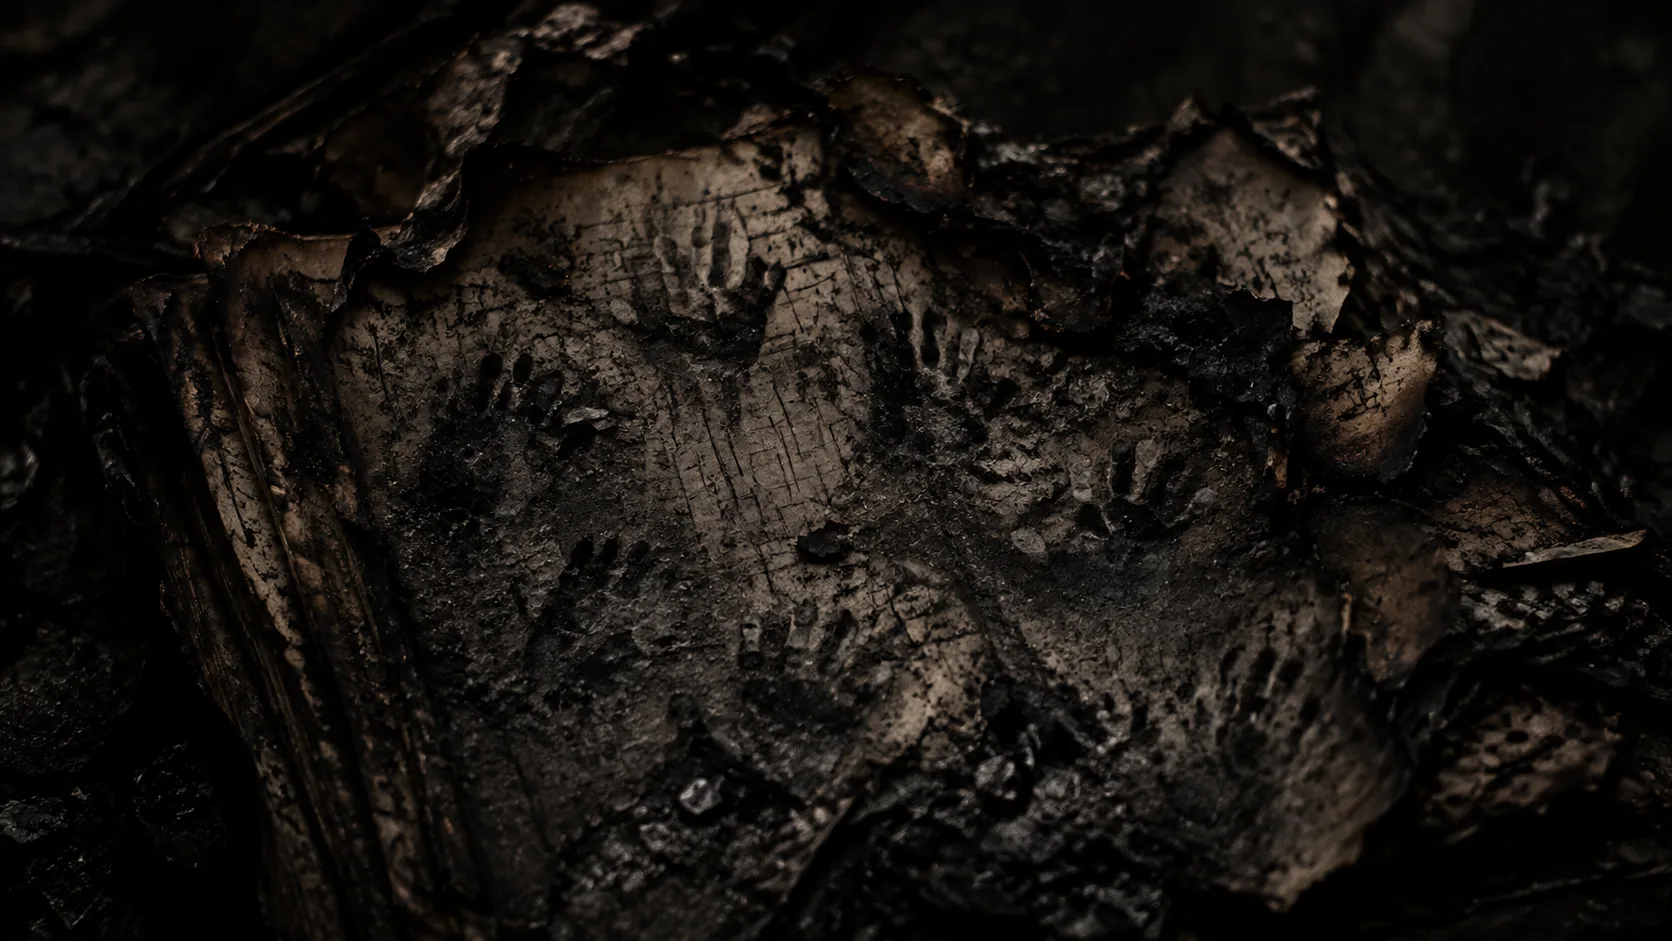
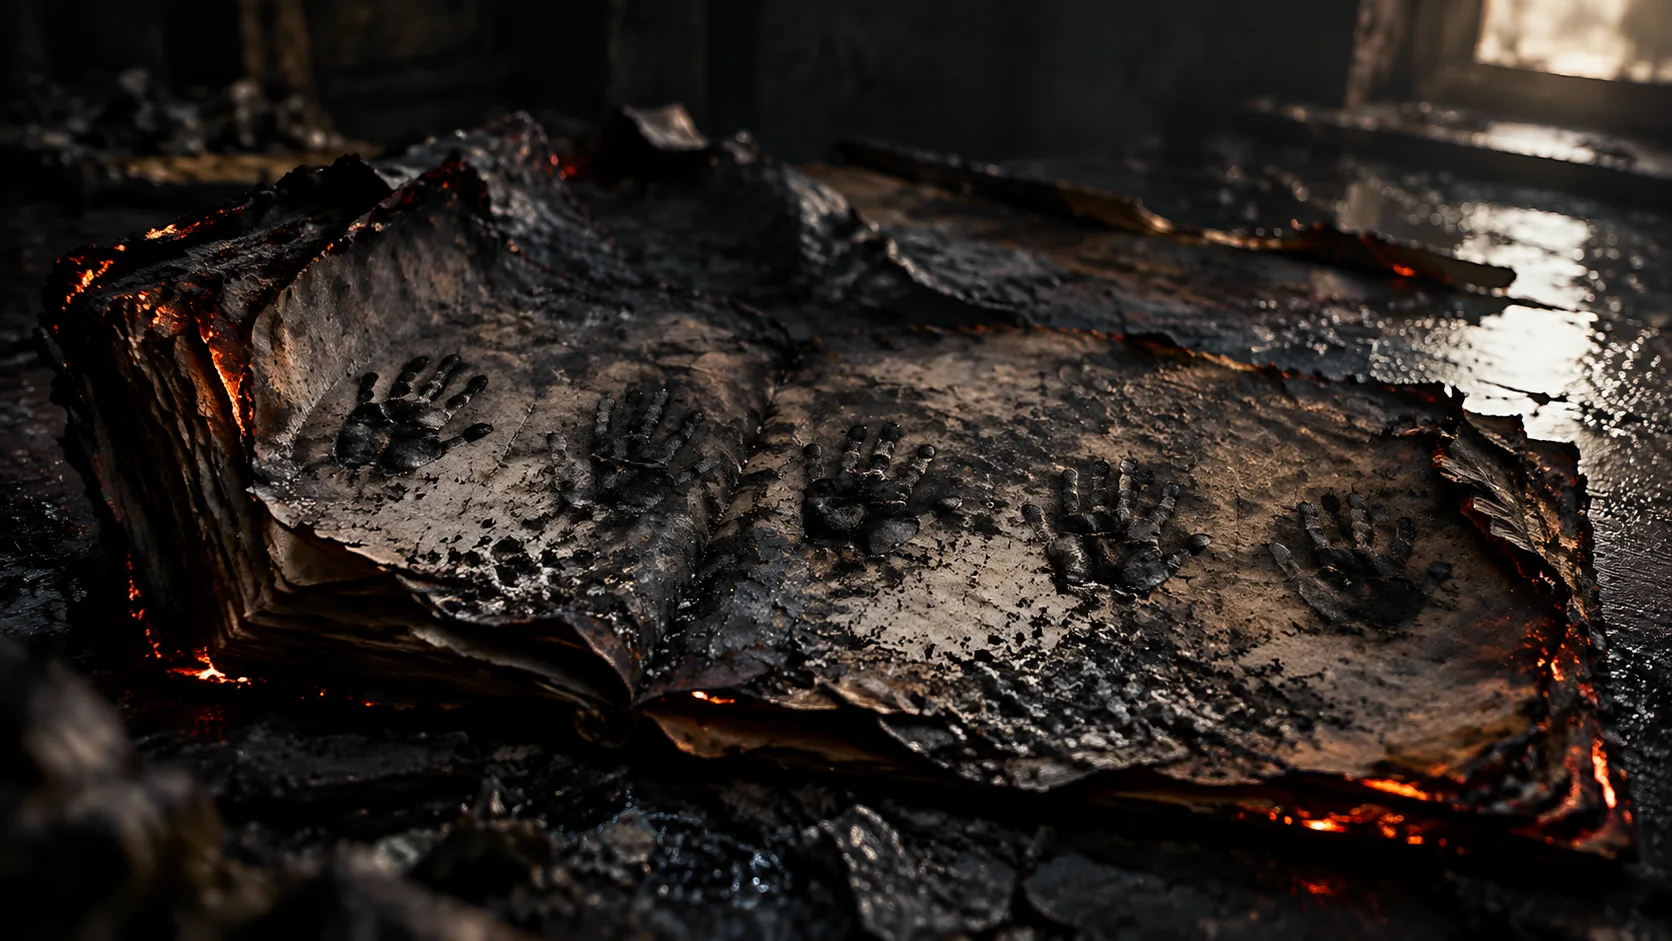
feat: 优化第二结局(账已焚)页——重出 hero 图、余烬飘灰动效、扩写文案、强化通第零笔线索

diff --git a/src/views/EndingAsh.vue b/src/views/EndingAsh.vue
@@ -2,6 +2,9 @@
   <section class="ending-page ending-grey">
     <figure class="ep-hero">
       <img :src="art" alt="" />
+      <div class="ep-embers" aria-hidden="true">
+        <i v-for="n in 30" :key="n" :style="emberStyle(n)"></i>
+      </div>
       <figcaption class="ep-cap">
         <p class="ep-kicker">结账 · 账已焚</p>
         <h1>账已焚</h1>
@@ -10,9 +13,17 @@
     </figure>
 
     <div class="ep-copy">
-      <p>账焚尽了。他看了很久，什么也没说。</p>
+      <p>账焚尽了。火停在最后一页，没有再往前烧。</p>
+      <p>他看了很久，什么也没说。四样回执齐了，这一页才点得着；点着了，他就再也回不去——您也一样。</p>
+      <p>万和号的后间空了。借出去的那些命，一笔一笔还了回去，只是还回来的，总比借出去时少一些。</p>
       <p>灰里还留着字痕。有些字，是烧不掉的。</p>
-      <RouterLink class="grey-hint" to="/strike-zero">账烧不干净的那一笔，在灰里也看得见。</RouterLink>
+
+      <RouterLink class="grey-clue" to="/strike-zero">
+        <span class="clue-tag">残页 · 未烧尽</span>
+        <span class="clue-text">账烧不干净的那一笔，在灰里也看得见。</span>
+        <span class="clue-go">翻回第一页 →</span>
+      </RouterLink>
+
       <button class="btn-flat" @click="restart">重新调阅</button>
     </div>
   </section>
@@ -27,6 +38,24 @@ const router = useRouter()
 const art = '/img/ending-ash.webp'
 onMounted(() => game.setEnding('grey'))   // 本页即灰结局：确立状态，保证第零笔入口可用
 function restart() { game.reset(); router.push('/') }
+
+// 余烬：按序号散列出位置/速度/漂移，避免每次渲染乱跳
+function emberStyle(n) {
+  const r1 = Math.abs((Math.sin(n * 12.9898) * 43758.5453) % 1)
+  const r2 = Math.abs((Math.sin(n * 78.233) * 12543.21) % 1)
+  const r3 = Math.abs((Math.sin(n * 39.425) * 9337.11) % 1)
+  const size = (2.5 + r3 * 4).toFixed(1) + 'px'
+  return {
+    left: (r1 * 100).toFixed(1) + '%',
+    bottom: (-2 + r3 * 32).toFixed(1) + '%',
+    width: size,
+    height: size,
+    animationDuration: (3.4 + r2 * 4.6).toFixed(2) + 's',
+    animationDelay: (-r2 * 7.5).toFixed(2) + 's',
+    '--dx': ((r1 - 0.5) * 60).toFixed(0) + 'px',
+    opacity: (0.45 + r3 * 0.5).toFixed(2),
+  }
+}
 </script>
 
 <style scoped>
@@ -36,28 +65,79 @@ function restart() { game.reset(); router.push('/') }
   border: 1px solid rgba(150, 145, 130, 0.4); background: #0d0906;
   box-shadow: 0 0 50px rgba(120, 118, 110, 0.14); animation: ep-in 0.9s ease both;
 }
-.ep-hero img { width: 100%; height: 100%; object-fit: cover; display: block; filter: grayscale(0.35) sepia(0.12) contrast(1.05) brightness(0.82); }
-.ep-hero::before { content: ""; position: absolute; inset: 0; background: linear-gradient(180deg, rgba(0,0,0,0.12) 0%, rgba(0,0,0,0.12) 42%, rgba(10,10,9,0.94) 100%); }
-.ep-hero::after { content: ""; position: absolute; inset: 0; pointer-events: none; background: repeating-linear-gradient(0deg, rgba(0,0,0,0.16) 0 1px, transparent 1px 3px); mix-blend-mode: multiply; }
-.ep-cap { position: absolute; left: 42px; bottom: 30px; z-index: 2; }
+.ep-hero img { width: 100%; height: 100%; object-fit: cover; display: block; filter: grayscale(0.28) sepia(0.14) contrast(1.06) brightness(0.86); animation: ep-breathe 7s ease-in-out infinite alternate; }
+/* 压暗 + 底部余烬的暖光 + 暗角 */
+.ep-hero::before {
+  content: ""; position: absolute; inset: 0; z-index: 1;
+  background:
+    radial-gradient(90% 60% at 50% 118%, rgba(255, 108, 24, 0.16), transparent 62%),
+    radial-gradient(120% 100% at 50% 46%, transparent 44%, rgba(4, 3, 2, 0.62) 86%, rgba(2, 1, 0, 0.92) 100%),
+    linear-gradient(180deg, rgba(0, 0, 0, 0.12) 0%, rgba(0, 0, 0, 0.12) 42%, rgba(10, 10, 9, 0.94) 100%);
+}
+/* 扫描线 */
+.ep-hero::after { content: ""; position: absolute; inset: 0; z-index: 2; pointer-events: none; background: repeating-linear-gradient(0deg, rgba(0,0,0,0.16) 0 1px, transparent 1px 3px); mix-blend-mode: multiply; }
+
+/* 余烬飘灰 */
+.ep-embers { position: absolute; inset: 0; z-index: 2; pointer-events: none; overflow: hidden; }
+.ep-embers i {
+  position: absolute; border-radius: 50%;
+  background: radial-gradient(circle, #ffdf9a 0%, #ff8a1e 46%, rgba(255, 90, 0, 0) 74%);
+  filter: blur(0.4px);
+  animation-name: ember-rise; animation-timing-function: ease-in; animation-iteration-count: infinite;
+  will-change: transform, opacity;
+}
+@keyframes ember-rise {
+  0% { transform: translate3d(0, 0, 0) scale(0.85); opacity: 0; }
+  12% { opacity: 1; }
+  70% { opacity: 0.85; }
+  100% { transform: translate3d(var(--dx, 12px), -300px, 0) scale(0.35); opacity: 0; }
+}
+
+.ep-cap { position: absolute; left: 42px; bottom: 30px; z-index: 3; animation: cap-in 0.9s ease 0.28s both; }
 .ep-kicker { margin: 0 0 8px; font-size: 0.82rem; letter-spacing: 0.5em; color: #9d988a; }
 .ep-hero h1 { margin: 0; font-family: var(--serif, serif); font-size: clamp(2.4rem, 6vw, 4rem); letter-spacing: 0.18em; color: #c9c4b6; text-shadow: 0 2px 12px #000; }
 .ep-seal {
-  position: absolute; top: 26px; right: 30px; z-index: 2; width: 64px; height: 64px; border-radius: 6px;
+  position: absolute; top: 26px; right: 30px; z-index: 3; width: 64px; height: 64px; border-radius: 6px;
   display: flex; align-items: center; justify-content: center; font-family: "Ma Shan Zheng", serif; font-size: 34px;
   border: 2px solid rgba(150, 145, 130, 0.7); color: #cfc7b4; background: rgba(20, 19, 17, 0.5);
   transform: rotate(-6deg); box-shadow: 0 0 22px rgba(120, 118, 110, 0.3);
+  animation: seal-in 0.7s cubic-bezier(0.2, 1.4, 0.4, 1) 0.65s both;
 }
 .ep-copy { max-width: 660px; margin: 34px auto 0; text-align: center; animation: ep-copy-in 1s ease 0.25s both; }
 .ep-copy p { line-height: 2.2; font-size: 1.05rem; color: #cfc9ba; margin: 0 0 0.8em; }
-.grey-hint { display: block; margin: 22px 0 6px; color: rgba(154, 122, 85, 0.32); font-size: 0.78rem; letter-spacing: 0.14em; text-decoration: none; cursor: pointer; transition: color 0.5s ease, text-shadow 0.5s ease; }
-.grey-hint:hover { color: rgba(224, 178, 92, 0.9); text-shadow: 0 0 14px rgba(224, 178, 92, 0.35); }
-.ep-copy .btn-flat { margin-top: 14px; }
+
+/* 通第零笔：把残页做成一条看得见的线索 */
+.grey-clue {
+  display: flex; flex-direction: column; align-items: center; gap: 7px;
+  max-width: 470px; margin: 28px auto 4px; padding: 16px 22px;
+  border: 1px dashed rgba(154, 122, 85, 0.42);
+  background: linear-gradient(180deg, rgba(34, 25, 15, 0.5), rgba(20, 14, 9, 0.5));
+  text-decoration: none; cursor: pointer;
+  transition: border-color 0.5s ease, background 0.5s ease, box-shadow 0.5s ease;
+}
+.grey-clue:hover { border-color: rgba(224, 178, 92, 0.8); background: rgba(42, 30, 17, 0.66); box-shadow: 0 0 26px rgba(224, 178, 92, 0.2); }
+.clue-tag { font-size: 0.68rem; letter-spacing: 0.36em; color: #8a6f4d; }
+.clue-text { color: #bfa578; font-size: 0.9rem; letter-spacing: 0.06em; transition: color 0.5s ease; }
+.clue-go { font-size: 0.74rem; letter-spacing: 0.2em; color: #7a5b36; transition: color 0.5s ease; }
+.grey-clue:hover .clue-text, .grey-clue:hover .clue-go { color: #f0c884; }
+
+.ep-copy .btn-flat { margin-top: 20px; }
+
 @keyframes ep-in { from { opacity: 0; transform: scale(1.035); } to { opacity: 1; transform: scale(1); } }
+@keyframes ep-breathe { from { filter: grayscale(0.28) sepia(0.14) contrast(1.06) brightness(0.82); } to { filter: grayscale(0.28) sepia(0.14) contrast(1.06) brightness(0.92); } }
 @keyframes ep-copy-in { from { opacity: 0; transform: translateY(12px); } to { opacity: 1; transform: translateY(0); } }
+@keyframes cap-in { from { opacity: 0; transform: translateY(16px); } to { opacity: 1; transform: translateY(0); } }
+@keyframes seal-in { from { opacity: 0; transform: rotate(-6deg) scale(0.35); } to { opacity: 1; transform: rotate(-6deg) scale(1); } }
+
+@media (prefers-reduced-motion: reduce) {
+  .ep-hero, .ep-hero img, .ep-cap, .ep-seal, .ep-copy { animation: none; }
+  .ep-embers i { animation: none; opacity: 0; }
+}
+
 @media (max-width: 720px) {
   .ep-hero { aspect-ratio: 16 / 9; }
   .ep-cap { left: 20px; bottom: 18px; }
   .ep-seal { width: 50px; height: 50px; font-size: 26px; top: 14px; right: 14px; }
+  .grey-clue { margin: 22px 0 4px; }
 }
 </style>
